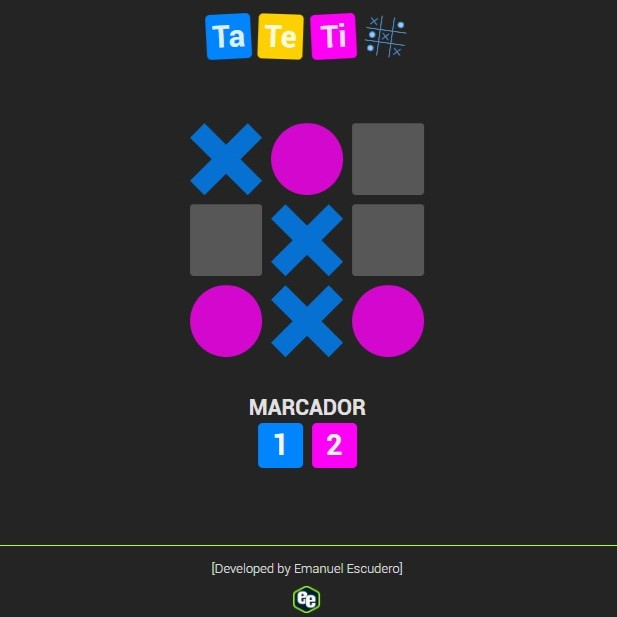
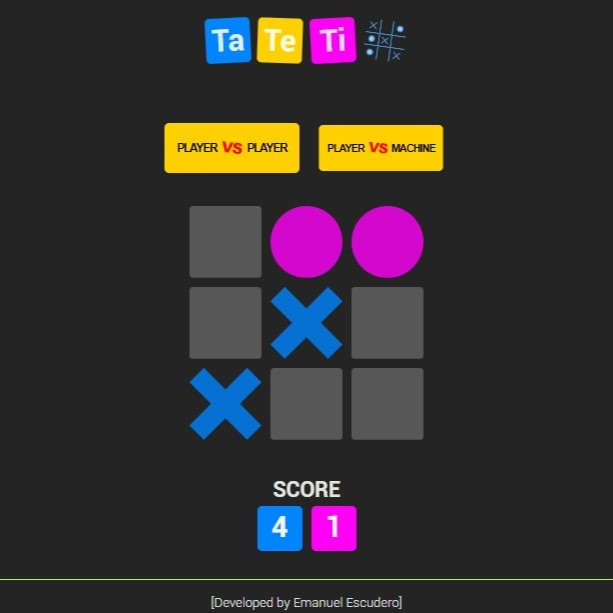
Menu Mode Game

Changed region(s): [[0.0, 0.186, 1.0, 1.0], [0.31, 0.0, 0.6819, 0.124]]

diff --git a/README.md b/README.md
@@ -1,12 +1,12 @@
 # TaTeTi vs Machine
 
-![Project Poster](https://i.ibb.co/Xxs0Wq8/Project-Poster.jpg)
+![Project Poster](https://i.ibb.co/TkCQBc1/Project-Poster.jpg)
 
 ## Emanuel Escudero
 
 ##### FrontEnd Developer
 
-_Game online called 'TaTeTi' vs Machine._
+_Game online called 'TaTeTi' Multiplayer or Player vs Machine._
 
 ### Created With
 
